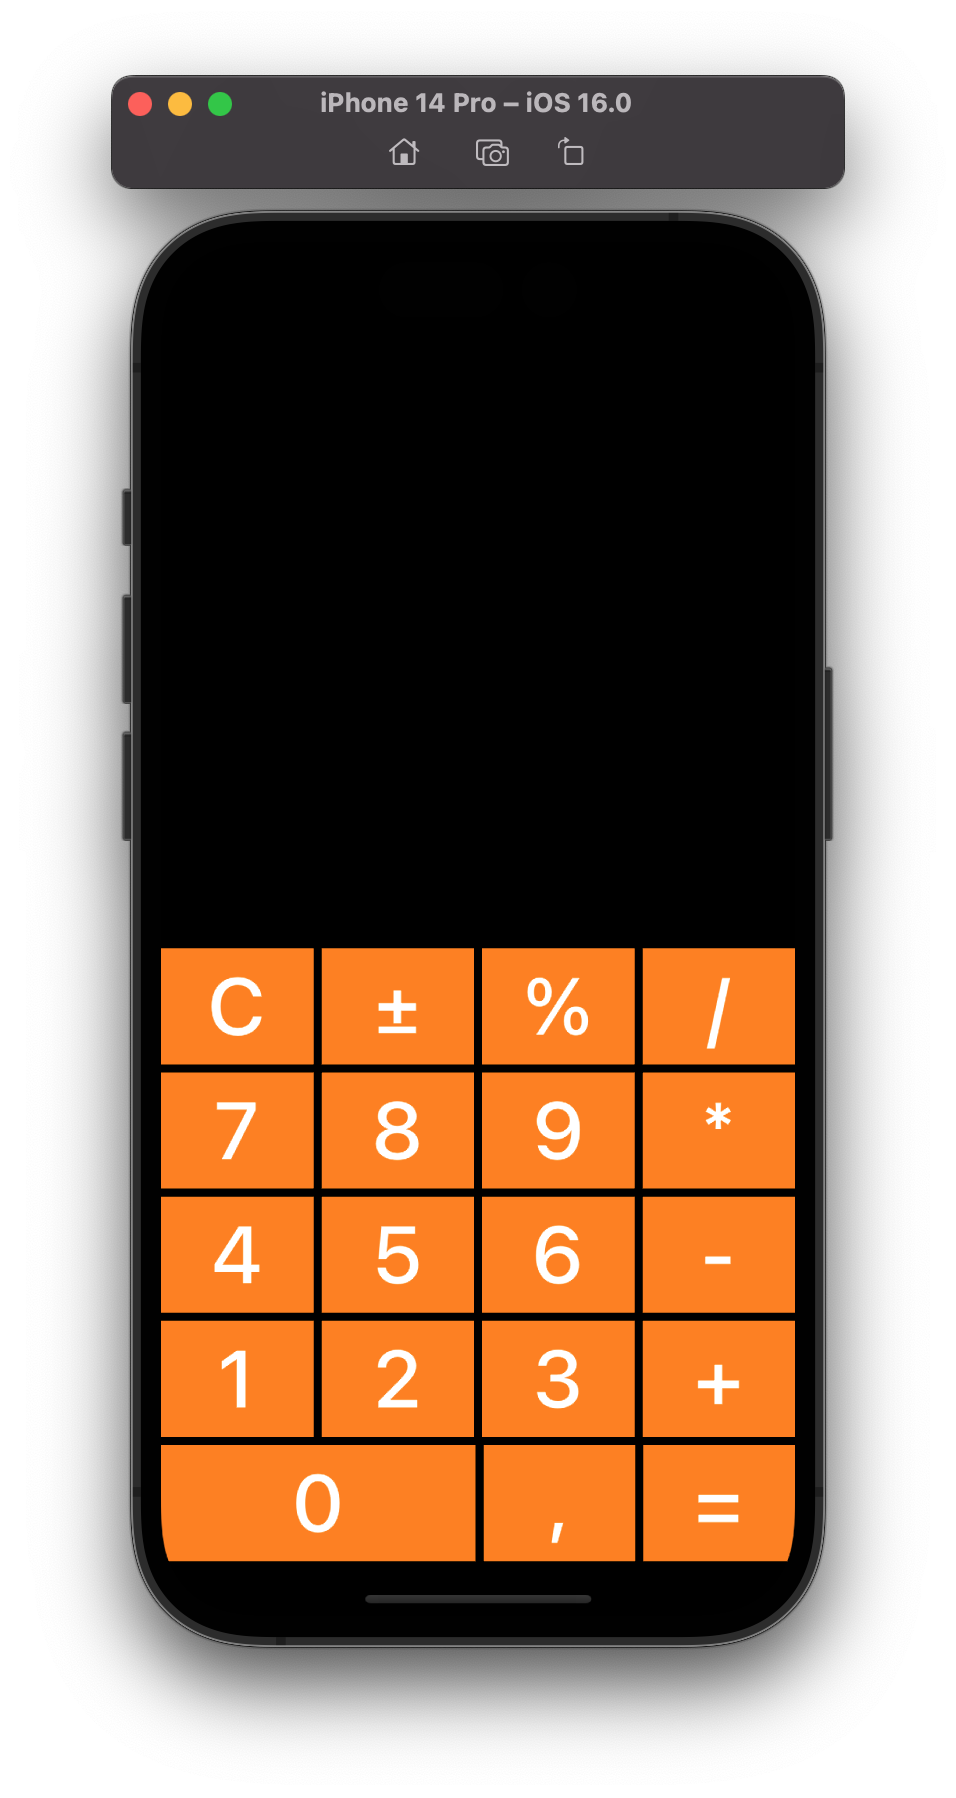
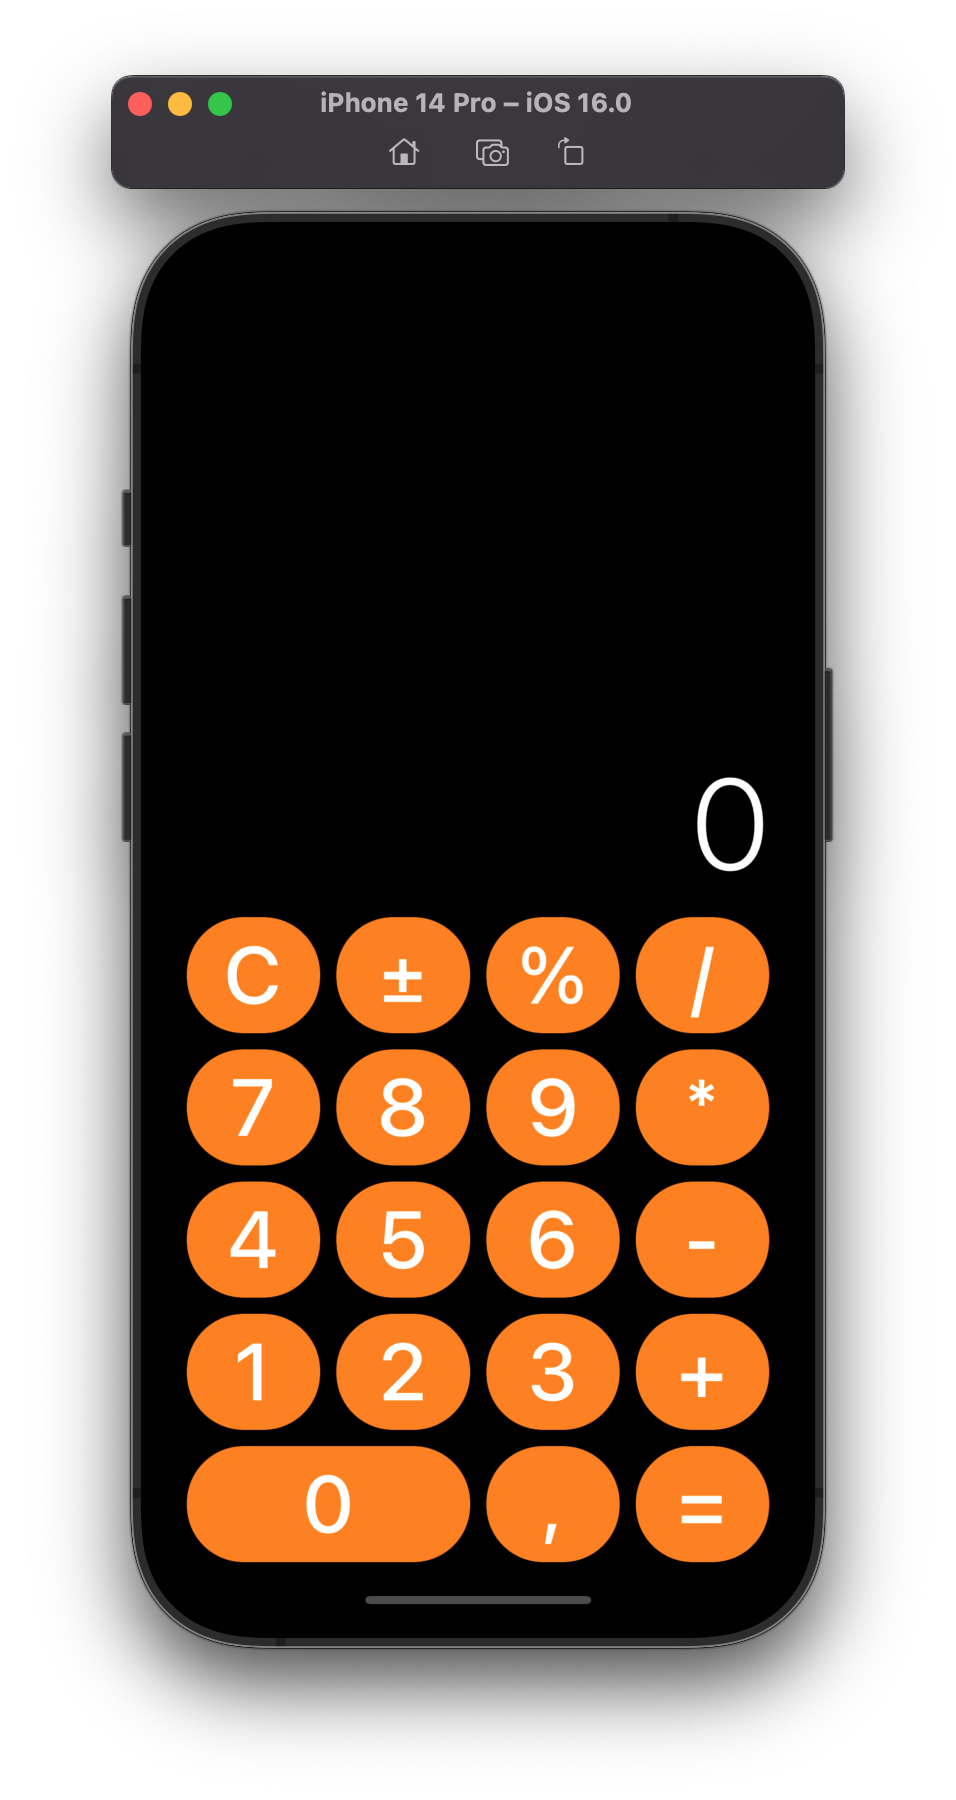
constraint finished

Changed region(s): [[0.1517, 0.436, 0.8494, 0.9032]]

diff --git a/PetProject/ViewControllers/CalculatorViewController.swift b/PetProject/ViewControllers/CalculatorViewController.swift
@@ -12,9 +12,9 @@ final class CalculatorViewController: UIViewController {
     private let resultLabel: UILabel = {
         let result = UILabel()
         result.translatesAutoresizingMaskIntoConstraints = false
-        result.layer.cornerRadius = 25
-        result.clipsToBounds = true
-        result.backgroundColor = .white
+        result.textAlignment = .right
+        result.textColor = .white
+        result.font = UIFont.systemFont(ofSize: 80, weight: .light)
         return result
     }()
     
@@ -43,11 +43,16 @@ final class CalculatorViewController: UIViewController {
     }()
     
     private lazy var zeroStack: UIStackView = {
-       setupStackView(spacing: 10)
+        setupStackView(spacing: 10)
     }()
     
     private lazy var lowStackView: UIStackView = {
         setupStackView(spacing: 10)
+    }()
+    
+    private lazy var moreStack: UIStackView = {
+        setupStackView(spacing: 10)
+        
     }()
     
     
@@ -76,32 +81,32 @@ final class CalculatorViewController: UIViewController {
     
     
     private lazy var fiveButton: UIButton = {
-       setupButton(title: "5")
+        setupButton(title: "5")
     }()
     
     
     private lazy var sixButton: UIButton = {
-       setupButton(title: "6")
+        setupButton(title: "6")
     }()
     
     
     private lazy var sevenButton: UIButton = {
-       setupButton(title: "7")
+        setupButton(title: "7")
     }()
     
     
     private lazy var eightButton: UIButton = {
-       setupButton(title: "8")
+        setupButton(title: "8")
     }()
     
     
     private lazy var nineButton: UIButton = {
-       setupButton(title: "9")
+        setupButton(title: "9")
     }()
     
     
     private lazy var resetButton: UIButton = {
-      setupButton(title: "C")
+        setupButton(title: "C")
     }()
     
     
@@ -110,7 +115,7 @@ final class CalculatorViewController: UIViewController {
     }()
     
     private lazy var percentButton: UIButton = {
-       setupButton(title: "%")
+        setupButton(title: "%")
     }()
     
     private lazy var divideButton: UIButton = {
@@ -118,7 +123,7 @@ final class CalculatorViewController: UIViewController {
     }()
     
     private lazy var multiplyButton: UIButton = {
-       setupButton(title: "*")
+        setupButton(title: "*")
     }()
     
     private lazy var minusButton: UIButton = {
@@ -126,54 +131,51 @@ final class CalculatorViewController: UIViewController {
     }()
     
     private lazy var plusButton: UIButton = {
-       setupButton(title: "+")
+        setupButton(title: "+")
     }()
     
     private lazy var equalButton: UIButton = {
-       setupButton(title: "=")
+        setupButton(title: "=")
     }()
     
     private lazy var commaButton: UIButton = {
-       setupButton(title: ",")
+        setupButton(title: ",")
     }()
     
     
     
-override func viewDidLoad() {
+    override func viewDidLoad() {
         super.viewDidLoad()
         setupLayout()
     }
     
+    @objc private func buttonTap(sender: UIButton) {
+        resultLabel.text = sender.currentTitle
+        sender.shine()
+    }
+    
     private func setupLayout() {
-       // view.backgroundColor = .darkGray
-        
+       
         [mainStack] .forEach { view.addSubview($0) }
-        [resultLabel, upperStackView, preUpperStackView, middleStackView, preMiddleStackView, lowStackView] .forEach { mainStack.addArrangedSubview($0) }
+        [resultLabel, upperStackView, preUpperStackView, middleStackView, preMiddleStackView, moreStack] .forEach { mainStack.addArrangedSubview($0) }
         [resetButton, negativeButton, percentButton, divideButton] .forEach { upperStackView.addArrangedSubview($0) }
         [sevenButton, eightButton, nineButton, multiplyButton] .forEach { preUpperStackView.addArrangedSubview($0) }
         [fourButton, fiveButton, sixButton, minusButton] .forEach { middleStackView.addArrangedSubview($0) }
         [oneButton, twoButton, threeButton, plusButton] .forEach { preMiddleStackView.addArrangedSubview($0) }
-        [zeroButton, commaButton, equalButton] .forEach { lowStackView.addArrangedSubview($0) }
-      //  [zeroButton] .forEach { zeroStack.addArrangedSubview($0) }
+        [zeroButton] .forEach { zeroStack.addArrangedSubview($0) }
+        [commaButton, equalButton] .forEach { lowStackView.addArrangedSubview($0) }
+        [zeroStack, lowStackView] . forEach { moreStack.addArrangedSubview($0)}
         NSLayoutConstraint.activate([
-          //  resultLabel.heightAnchor.constraint(equalToConstant: 300),
+
+            resultLabel.heightAnchor.constraint(equalToConstant: 100),
             
-            mainStack.topAnchor.constraint(equalTo: view.safeAreaLayoutGuide.topAnchor),
+            mainStack.topAnchor.constraint(equalTo: resultLabel.bottomAnchor, constant: 10),
             mainStack.leadingAnchor.constraint(equalTo: view.safeAreaLayoutGuide.leadingAnchor, constant: 16),
             mainStack.bottomAnchor.constraint(equalTo: view.safeAreaLayoutGuide.bottomAnchor),
             mainStack.trailingAnchor.constraint(equalTo: view.safeAreaLayoutGuide.trailingAnchor, constant: -16),
+
             
-//            upperStackView.heightAnchor.constraint(equalToConstant: 70),
-//            upperStackView.widthAnchor.constraint(equalToConstant: 70),
-//         
-//            preUpperStackView.heightAnchor.constraint(equalToConstant: 70),
-//
-//            middleStackView.heightAnchor.constraint(equalToConstant: 70),
-//
-//            preMiddleStackView.heightAnchor.constraint(equalToConstant: 70),
-//
-//            lowStackView.heightAnchor.constraint(equalToConstant: 70),
-            
+            zeroStack.widthAnchor.constraint(equalToConstant: 200),
         ])
     }
 }
@@ -200,6 +202,7 @@ extension CalculatorViewController {
         button.setTitle(title, for: .normal)
         button.titleLabel?.font = UIFont.systemFont(ofSize: 50, weight: .medium)
         button.backgroundColor = .orange
+        button.addTarget(self, action: #selector(buttonTap), for: .touchUpInside)
         return button
     }
 }

diff --git a/PetProject/ViewControllers/Extension  + UiButton.swift b/PetProject/ViewControllers/Extension  + UiButton.swift
@@ -1,0 +1,21 @@
+//
+//  Extension  + UiButton.swift
+//  PetProject
+//
+//  Created by roman Khilchenko on 09.01.2023.
+//
+
+import UIKit
+
+extension UIButton {
+    
+    func shine() {
+        UIView.animate(withDuration: 0.2, animations: {
+            self.alpha = 0.5
+        }) { _ in
+            UIView.animate(withDuration: 0.2, animations: {
+                self.alpha = 1
+            })
+        }
+    }
+}

diff --git a/README.md b/README.md
@@ -1,2 +1,2 @@
-#Calculator 
-![photo](image/image.png) 
+# Calculator 
+![photo](imgage/image.png) 
